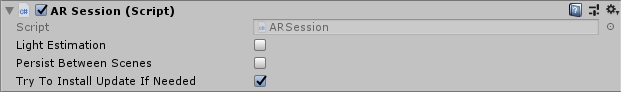
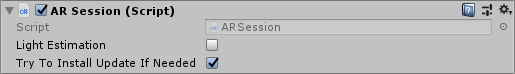
1.0.0-preview.10 - 2018/06/07 @2018.1

Changed region(s): [[0.0, 0.0, 1.0, 1.0], [0.0, 0.027, 0.3417, 0.7297]]

diff --git a/package/Documentation~/com.unity.xr.arfoundation.md b/package/Documentation~/com.unity.xr.arfoundation.md
@@ -50,7 +50,7 @@ A session has the following options, each of which may be changed at runtime:
 | Option | Meaning |
 |-|-|
 | Light Estimation | Whether to enable light estimation information. This can be used to correctly light virtual content in the scene. |
-| Session Timeout | If Unity does not receive data from the platform within this timeframe, it assumes session has failed. |
+| Try to Install Update If Needed | Will try to install AR software if possible. |
 
 **Note:** An AR session is a global construct. An `ARSession` component manages this global session, so multiple `ARSession` components will all try to manage the same global session.
 
@@ -196,3 +196,4 @@ AR Foundation includes the following known limitations:
 |April 25, 2018|Updated docs and screen shots after package rename.|
 |April 19, 2018|Updated screen shots and information after code changes. Added section on `ARBackgroundRenderer` component. |
 |April 10, 2018|Document created.|
+|June 6, 2018|Update ARSession image|

diff --git a/package/CHANGELOG.md b/package/CHANGELOG.md
@@ -26,3 +26,7 @@ and this project adheres to [Semantic Versioning](http://semver.org/spec/v2.0.0.
 
 - Rename `ARBackgroundRenderer` to `ARCameraBackground`
 - Unify `ARSessionState` & `ARSystemState` enums
+
+## [1.0.0-preview.10] - 2018-06-06
+
+- Update documentation: ARSession image and written description.
